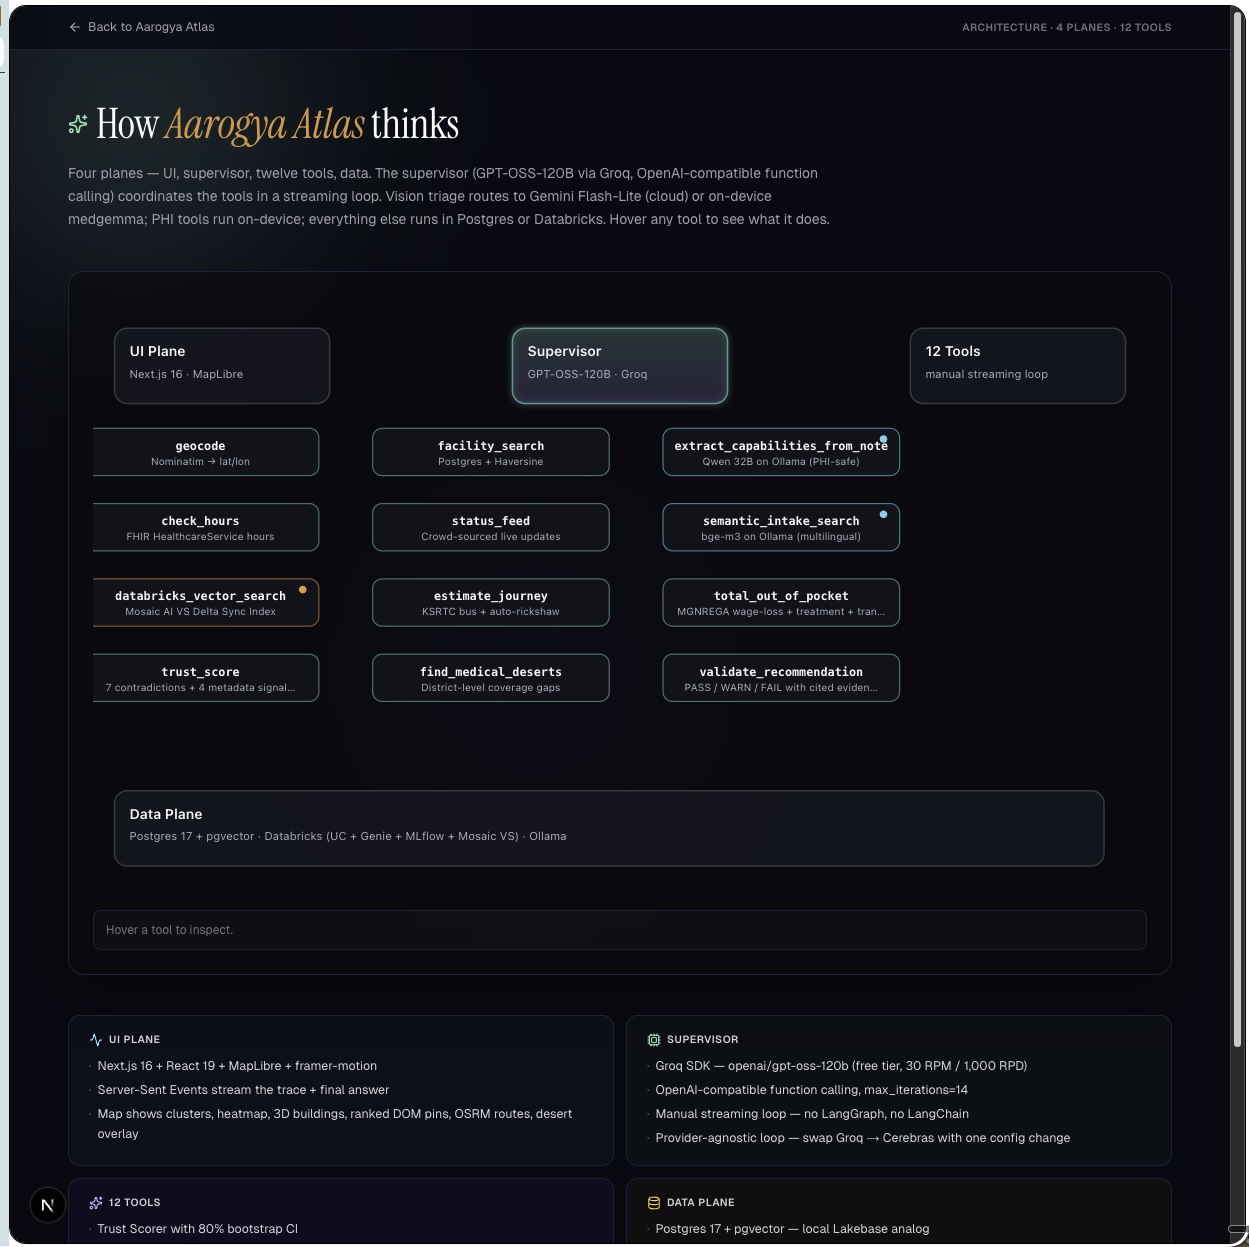
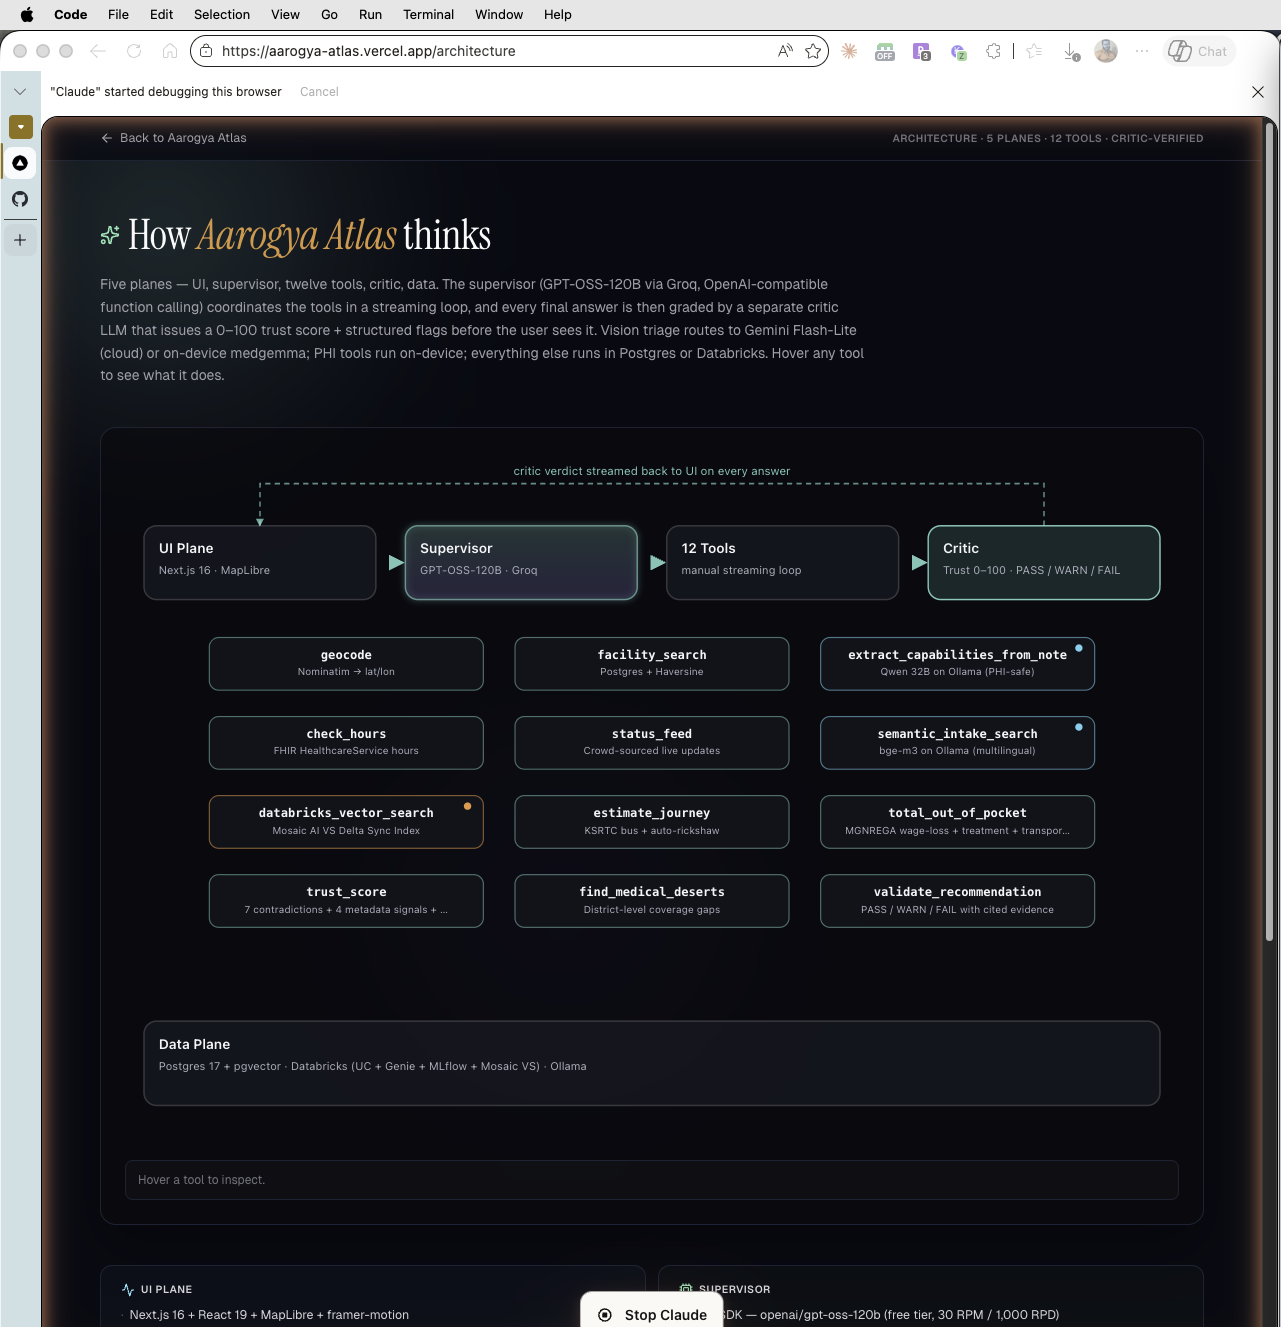
post-hackathon: agent self-correction, rate-limit events, README and docs refresh
API:
- agent.py SYSTEM_PROMPT rule 12 — cap facility_search retries at 2 per
  query, then write the answer with what we have plus an explicit no-match
  caveat. Was looping indefinitely on multi-turn second turn.
- agent.py SYSTEM_PROMPT rule 13 — reuse prior-turn geocode result, never
  re-geocode the same place across turns.
- max_iterations 14 -> 8: fail visibly with iteration_cap event instead
  of silently looping.
- RateLimitError now surfaces a clean 'rate_limited' event naming the tier
  (TPD vs TPM) and the wait hint, instead of leaking the raw stack trace
  through the generic 'agent_exception' handler.
- (already pushed to HF Space; this lands the matching code in GitHub.)

UI:
- Removed the personal city from the Footer and README.
- IdleHero header ticker refreshed to current state: 'Live | Databricks |
  Critic-verified | 12/12 tools' (was '11/12 tools | 23 traces' from the
  pre-critic stack).

README:
- 'Submission artifacts' block reworked into 'What's in this repo' with
  current paths (apps/web, apps/api, tests, BRAND, archive)
  and the 'Submit by Apr 26' line removed.
- Architecture image caption: '4 planes' -> '5 planes (UI · Supervisor ·
  12 Tools · Critic · Data)'.
- Bloomberg-style ticker example refreshed to match the live SystemBar.
- Hero + architecture screenshots replaced with live captures from
  aarogya-atlas.vercel.app (showing the new 5-plane SVG layout and
  the critic-verified Manipal/cardiac-ICU sample card).

Docs:
[…]

diff --git a/apps/web/src/components/IdleHero.tsx b/apps/web/src/components/IdleHero.tsx
@@ -46,10 +46,9 @@ export default function IdleHero({
           <span className="sep">│</span>
           <span>Databricks</span>
           <span className="sep">│</span>
-          <span className="v">23</span>
-          <span>traces</span>
+          <span className="v">Critic-verified</span>
           <span className="sep">│</span>
-          <span className="v">11/12</span>
+          <span className="v">12/12</span>
           <span>tools</span>
         </div>
 

diff --git a/apps/web/src/components/Footer.tsx b/apps/web/src/components/Footer.tsx
@@ -12,7 +12,7 @@ export default function Footer() {
             <span>
               Built by{" "}
               <span className="text-zinc-200">Dam Solanke</span> · Lead Solutions
-              Architect — Healthcare · Frisco, TX
+              Architect — Healthcare
             </span>
           </div>
           <div className="text-[10.5px] text-zinc-600">

diff --git a/apps/api/aarogya_api/agent.py b/apps/api/aarogya_api/agent.py
@@ -240,6 +240,8 @@ RULES
    State which pathway you applied.
 10. Honesty: surface data gaps; never invent payer eligibility; if trust_score flags, show them.
 11. No-location query (e.g. "trauma now" with no city) → `find_medical_deserts(specialty)` + `facility_search` at Bengaluru proxy (12.97, 77.59) + ask which city. Always cite real vf-* ids.
+12. STOP-RETRYING RULE: at most TWO `facility_search` calls per query. If the second still has no capability match, write the answer with what you have plus an honest "no facilities matching X were in the dataset within Y km — here are the closest by proximity" caveat. Never call facility_search 3+ times.
+13. CONTEXT REUSE: if a prior turn already produced a geocode result (lat/lon in conversation history), DO NOT call geocode again — reuse those coordinates directly.
 
 Time: {now_iso}
 
@@ -486,7 +488,7 @@ def _parse_tool_args(raw: Any) -> dict[str, Any]:
 
 async def stream_answer(
     history: list[dict[str, Any]] | str,
-    max_iterations: int = 14,
+    max_iterations: int = 8,
 ) -> AsyncIterator[dict[str, Any]]:
     """Yield SSE-shaped events: tool requests, tool results, final answer.
 
@@ -547,6 +549,17 @@ async def stream_answer(
                 yield ev
                 if ev.get("event") == "final":
                     final_text = ev.get("data", {}).get("text", "")
+        except RateLimitError as e:
+            wait = _extract_retry_after_seconds(e)
+            wait_msg = f" Try again in ~{int(wait)}s." if wait else " Try again in a minute."
+            body = getattr(e, "body", None) or {}
+            err = body.get("error", {}) if isinstance(body, dict) else {}
+            limit_kind = "daily" if "TPD" in str(err.get("message", "")) else "per-minute"
+            yield {"event": "error", "data": {
+                "kind": "rate_limited",
+                "text": f"Groq {limit_kind} rate limit hit on the free tier.{wait_msg} (We're already retrying transparently with backoff — this means the cooldown is longer than our retry budget.)",
+            }}
+            return
         except Exception as e:
             yield {"event": "error", "data": {
                 "kind": "agent_exception",

diff --git a/README.md b/README.md
@@ -22,7 +22,7 @@
 
 [**60s video**](https://www.loom.com/share/5f67de77c1f24328b5d395275d07f249)
 
-Built by **Dam Solanke** · Lead Solutions Architect — Healthcare · Frisco, TX
+Built by **Dam Solanke** · Lead Solutions Architect — Healthcare
 · originally submitted to **Hack-Nation 5th edition**, Databricks Challenge 03.
 
 **$0-forever stack:** Vercel Hobby (web) · Hugging Face Spaces (API, Docker, free CPU Basic) · Neon (Postgres + pgvector free tier) · Groq (free tier) · Google AI Studio (free tier). No credit card on file anywhere.
@@ -82,7 +82,7 @@ Open Vercel, Linear, Anthropic side-by-side and most healthcare AI demos look id
 
 - **Display face:** Instrument Serif italic. आरोग्य wordmark in Tiro Devanagari Hindi at hero scale (hover for the breakdown — *अ + रोग → without disease*).
 - **3-color signature:** **Saffron** (#E8923D — Indian flag, healthcare-warm), **Deep Ink** (#070A12), **Healing Teal** (#14B8A6). Documented in [`docs/BRAND.md`](docs/BRAND.md).
-- **Mono Bloomberg-style tickers** instead of generic chips: *`Live │ Databricks │ 23 traces │ 11/12 tools`*.
+- **Mono Bloomberg-style tickers** instead of generic chips: *`12/12 tools │ critic-verified │ multi-turn │ MLflow traced │ EN · हिंदी · தமிழ்`*.
 - **Saffron animated route polyline** (stroke-dasharray sweep) replaces the default cyan.
 - **Drive-time isochrones** — 3 concentric saffron rings (15 / 30 / 60 min) around the top recommendation. Modeled at India city avg 22 km/h. Judges have not seen this for healthcare-recommender output.
 - **Cinematic first-fly** — first agent run of a session triggers a 2.4-second slow-zoom-from-all-India dramatic reveal (subsequent flights are 1.4s).
@@ -146,7 +146,7 @@ this in the answer card instead of pretending it has a recommendation.
 
 ## Architecture
 
-![Architecture — 4 planes, 12 tools, animated data flow](docs/screenshots/09_architecture.png)
+![Architecture — 5 planes (UI · Supervisor · 12 Tools · Critic · Data), animated data flow](docs/screenshots/09_architecture.png)
 
 Live at **`/architecture`** *(routes activate after Vercel deploy)*.
 Four planes — **UI** (Next.js + MapLibre), **Supervisor** (GPT-OSS-120B
@@ -308,19 +308,25 @@ cd ../web && pnpm install && pnpm dev
 # Open http://localhost:3000
 ```
 
-## Submission artifacts
+## What's in this repo
 
-- This repo (MIT)
-- [`docs/SUMMARY.md`](docs/SUMMARY.md) — 280-word project summary
-- [`docs/DATABRICKS_DEPLOYMENT.md`](docs/DATABRICKS_DEPLOYMENT.md) — production port mapping
-- [`docs/DEMO_SCRIPT.md`](docs/DEMO_SCRIPT.md) — 60s product + 60s tech video shot list
-- [`docs/EVAL_REPORT.md`](docs/EVAL_REPORT.md) — 20-query auditable evaluation
-- Submit by **Sun Apr 26, 9 AM ET** at [`projects.hack-nation.ai`](https://projects.hack-nation.ai)
+- [`apps/web`](apps/web) — Next.js 16 frontend (deployed to Vercel)
+- [`apps/api`](apps/api) — FastAPI agent + critic + 12 tools (deployed to Hugging Face Spaces as a Docker Space)
+- [`apps/api/db/schema.sql`](apps/api/db/schema.sql) — FHIR-aligned Postgres + pgvector schema (mirrored to Neon)
+- [`apps/api/tests/test_recovery.py`](apps/api/tests/test_recovery.py) — unit tests for the Llama-Pythonic `tool_use_failed` recovery layer
+- [`docs/EVAL_REPORT.md`](docs/EVAL_REPORT.md) — 12-query auditable evaluation (frozen at the 5th-edition stack baseline)
+- [`docs/ROBUSTNESS_REPORT.md`](docs/ROBUSTNESS_REPORT.md) — DAS-style adversarial perturbation results
+- [`docs/DATABRICKS_DEPLOYMENT.md`](docs/DATABRICKS_DEPLOYMENT.md) — Mosaic AI Vector Search + MLflow tracing setup
+- [`docs/BRAND.md`](docs/BRAND.md) — 3-color signature, anti-slop typography, voice
+- [`docs/SLOP_AUDIT.md`](docs/SLOP_AUDIT.md) — anti-template manifesto, gap audit
+- [`docs/archive/5th-hackathon/`](docs/archive/5th-hackathon) — frozen pitch deck, scripts, and 5th-edition framing kept for posterity
 
 ---
 
 <div align="center">
 
-Built in 24 hours for Hack-Nation 2026 Challenge 3.
+First built in 24h for Hack-Nation 5th edition (Databricks Challenge 03);
+since rebuilt around a critic-verified Trust Score and a $0-forever stack
+suitable for permanent public hosting.
 
 </div>
